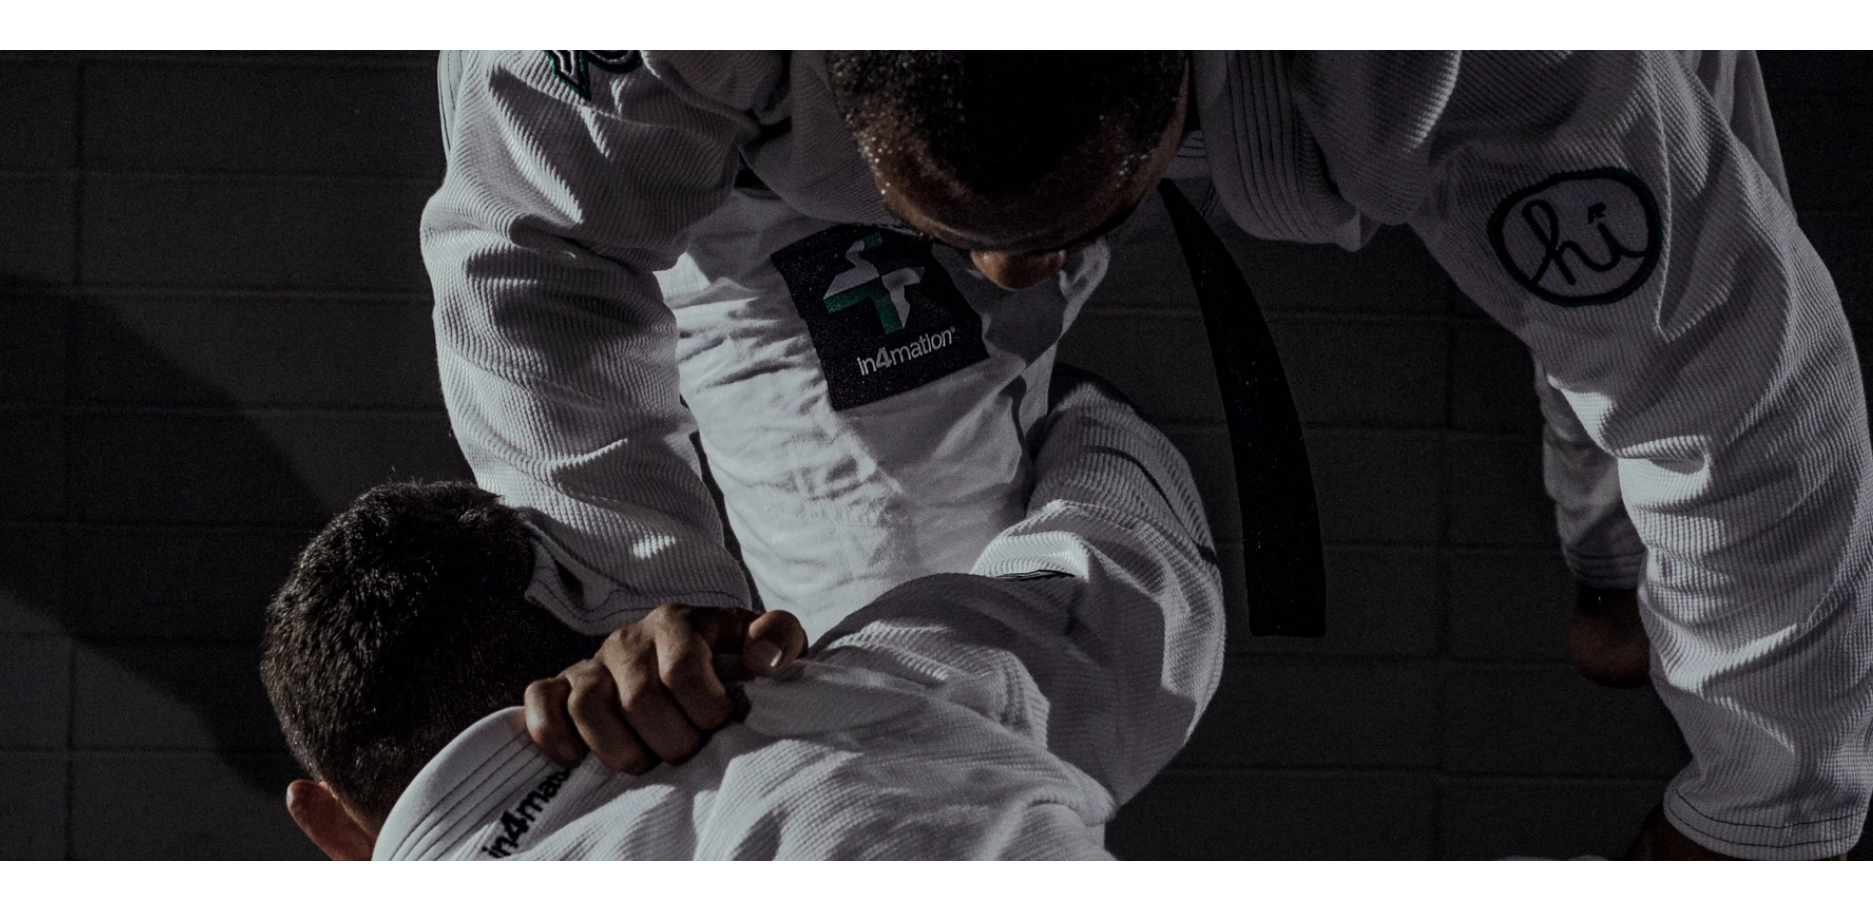
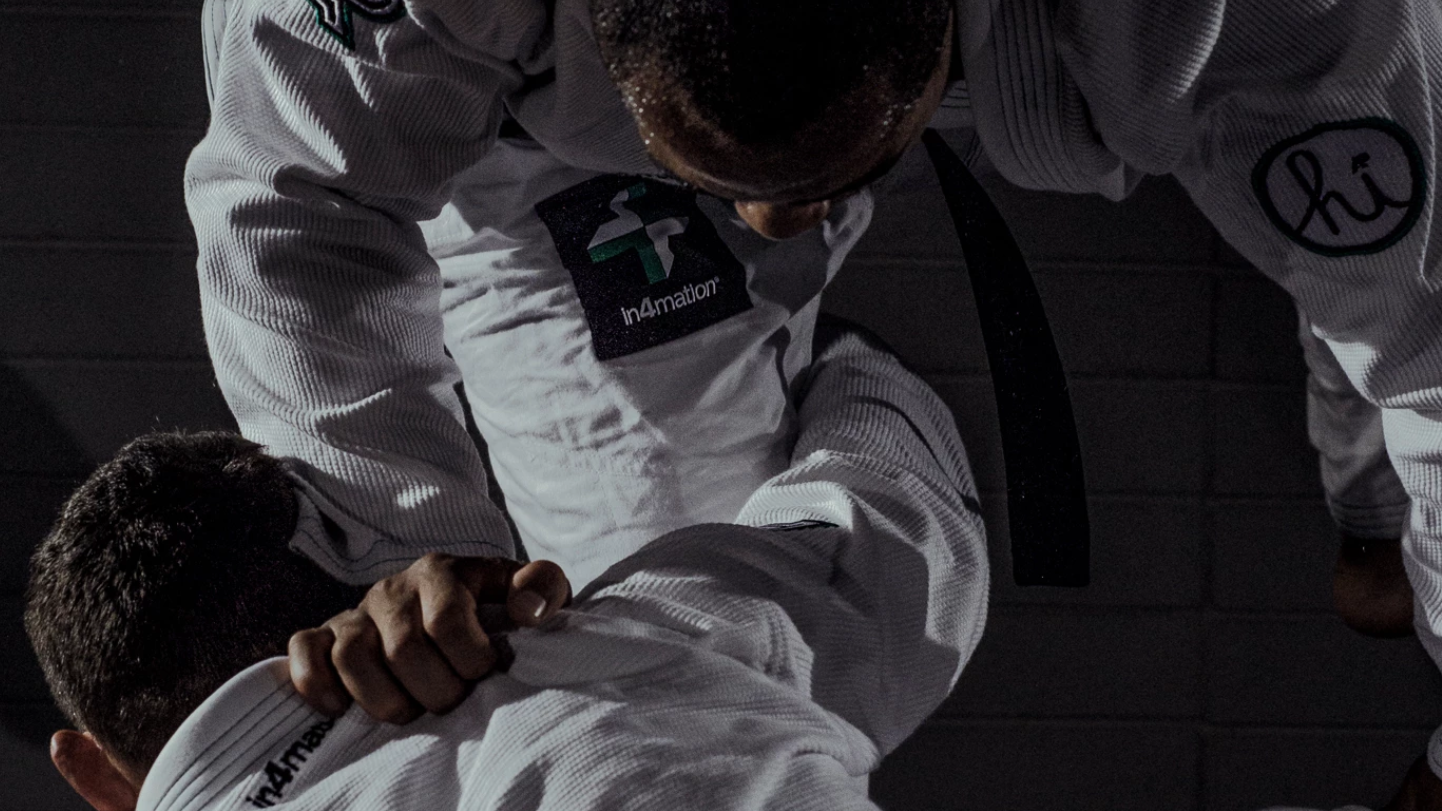
updated css files

diff --git a/client/src/styles/DropList.css b/client/src/styles/DropList.css
@@ -1,7 +1,7 @@
 body {
     background: url("../images/background.png");
     background-repeat: no-repeat;
-    background-size: auto;
+    background-size: cover;
 }
 
 h1 {
